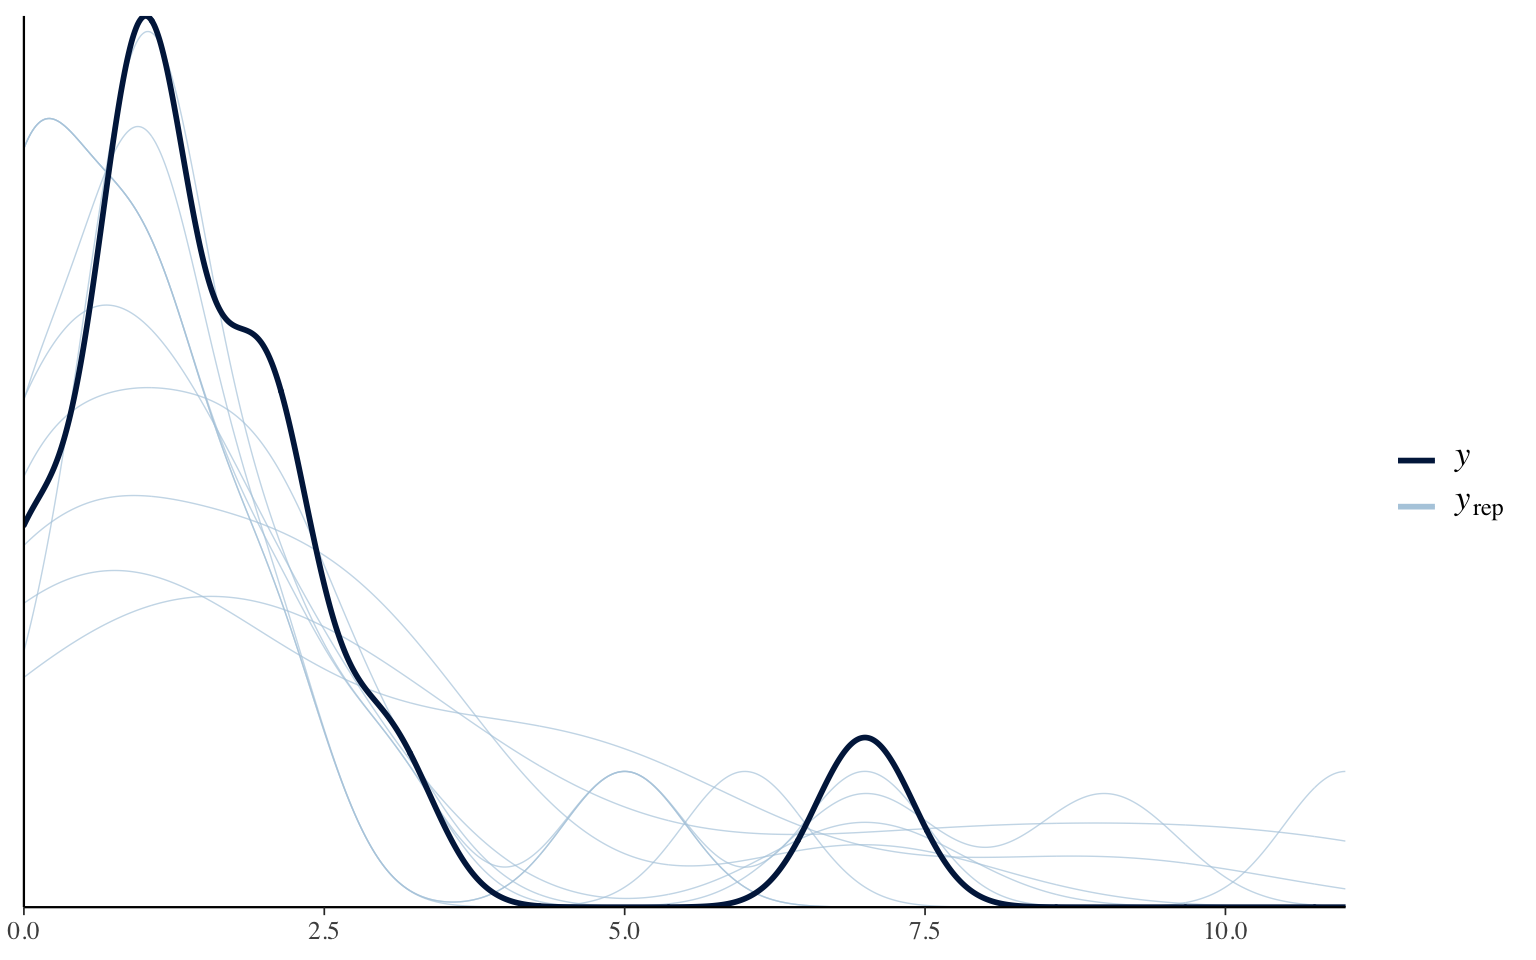
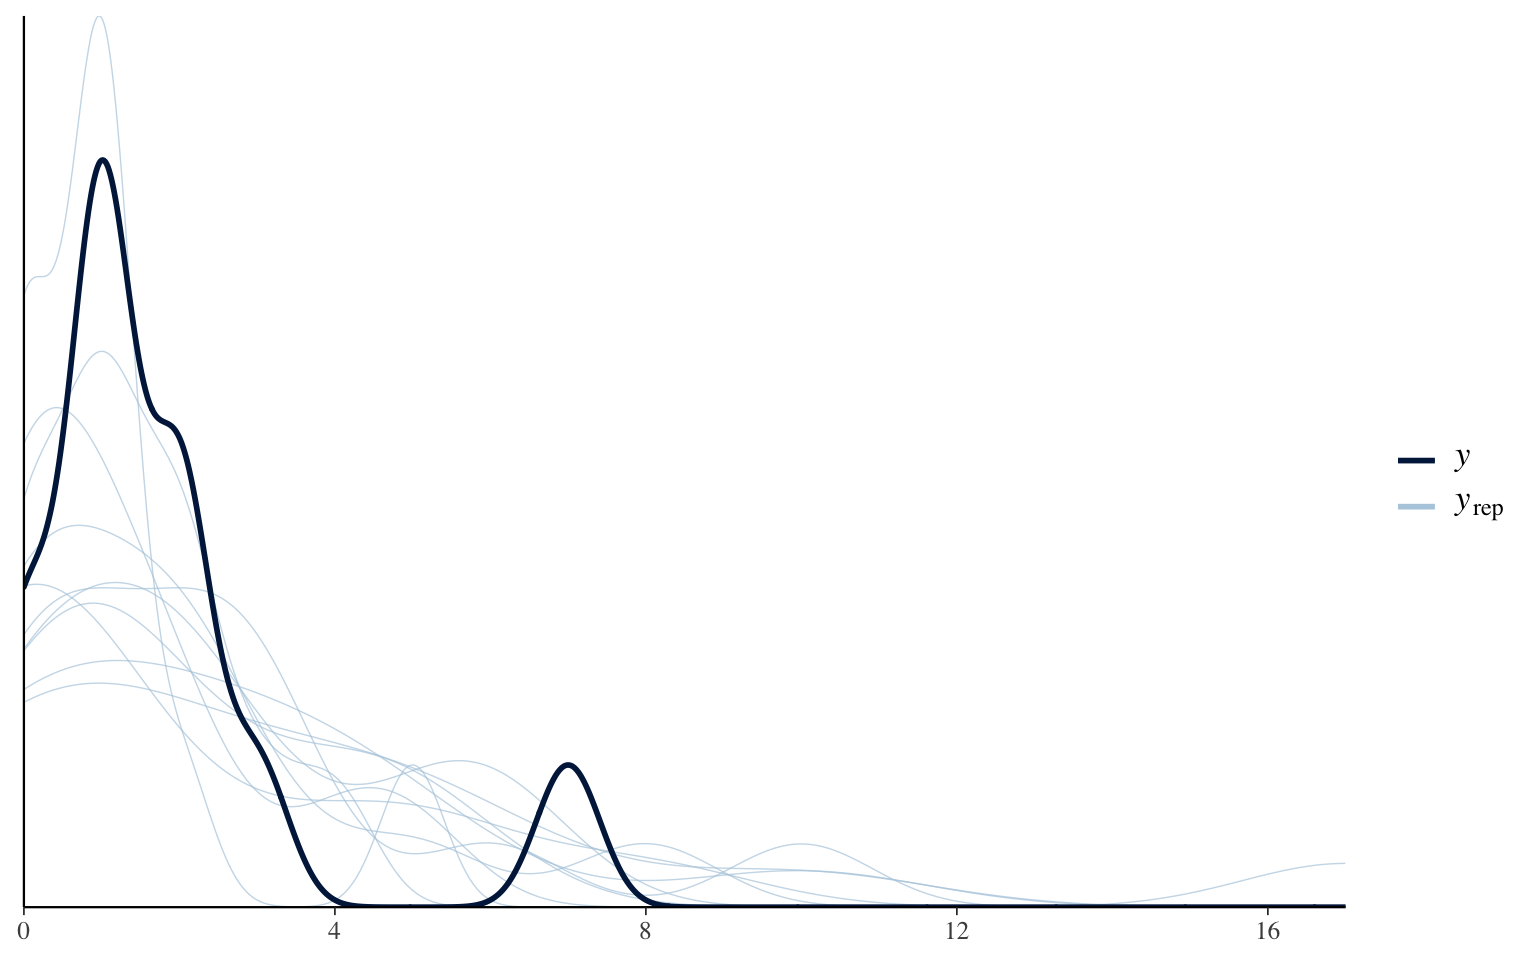
update md/qmd for bayesian for corrected images

diff --git a/content/posts/bayesian/01-intro.md b/content/posts/bayesian/01-intro.md
@@ -13,7 +13,10 @@ execute:
 
 ## 0. Problem: Total Effect of Race on CMPD Arrests
 
-Load the data and aggregate for counts.
+Load the data and aggregate for counts. To simplify this analysis, we'll
+examine only one month (June, 2017). First, we'll load our data and then
+keep only stops with White/Black individuals as well as Reason for the
+stop based on certain stops.
 
 ``` r
 library(tidyverse)
@@ -32,8 +35,8 @@ library(tidyverse)
 
 ``` r
 df <- read_csv("Officer_Traffic_Stops.csv") %>%
-  mutate(arrest = if_else(Result_of_Stop == "Arrest", 1L, 0L)) %>%
-  sample_n(size=1000) %>%
+  mutate(arrest = if_else(Result_of_Stop %in% c("Arrest","Citation Issued"), 1L, 0L)) %>%
+  filter(Month_of_Stop == "2017/06") %>%
   filter(Driver_Race %in% c("White","Black")) %>%
   filter(Reason_for_Stop %in% c("Vehicle Regulatory","Speeding","SeatBelt","Vehicle Equipment","Stop Light/Sign","Safe Movement"))
 ```
@@ -55,14 +58,14 @@ head(df)
 ```
 
     # A tibble: 6 × 18
-      Month_of_Stop Reason_for_Stop    Officer_Race  Officer_Gender Officer_Years_o…
-      <chr>         <chr>              <chr>         <chr>                     <dbl>
-    1 2016/07       Vehicle Equipment  White         Male                          1
-    2 2017/04       Speeding           Black/Africa… Male                          7
-    3 2017/10       Speeding           Black/Africa… Male                         16
-    4 2017/08       Vehicle Equipment  White         Male                         19
-    5 2017/01       Speeding           Asian / Paci… Male                          7
-    6 2016/10       Vehicle Regulatory White         Male                          8
+      Month_of_Stop Reason_for_Stop    Officer_Race Officer_Gender Officer_Years_of…
+      <chr>         <chr>              <chr>        <chr>                      <dbl>
+    1 2017/06       Vehicle Regulatory White        Female                         3
+    2 2017/06       Vehicle Regulatory White        Male                           2
+    3 2017/06       Stop Light/Sign    White        Male                           5
+    4 2017/06       Vehicle Equipment  White        Male                          10
+    5 2017/06       Stop Light/Sign    White        Male                           2
+    6 2017/06       Stop Light/Sign    White        Female                         3
     # … with 13 more variables: Driver_Race <chr>, Driver_Ethnicity <chr>,
     #   Driver_Gender <chr>, Driver_Age <dbl>, Was_a_Search_Conducted <chr>,
     #   Result_of_Stop <chr>, CMPD_Division <chr>, ObjectID <dbl>,
@@ -85,18 +88,18 @@ df2
     # Groups:   Driver_Race [2]
        Driver_Race Reason_for_Stop    stops arrests
        <chr>       <chr>              <int>   <int>
-     1 Black       Safe Movement         34       1
-     2 Black       SeatBelt               4       0
-     3 Black       Speeding             114       0
-     4 Black       Stop Light/Sign       45       1
-     5 Black       Vehicle Equipment     72       4
-     6 Black       Vehicle Regulatory   251       3
-     7 White       Safe Movement         18       0
-     8 White       SeatBelt               3       0
-     9 White       Speeding             149       0
-    10 White       Stop Light/Sign       48       0
-    11 White       Vehicle Equipment     41       0
-    12 White       Vehicle Regulatory   117       0
+     1 Black       Safe Movement         94      23
+     2 Black       SeatBelt              31       8
+     3 Black       Speeding             285     194
+     4 Black       Stop Light/Sign      139      31
+     5 Black       Vehicle Equipment    271      49
+     6 Black       Vehicle Regulatory   764     239
+     7 White       Safe Movement         93      30
+     8 White       SeatBelt              12       2
+     9 White       Speeding             328     207
+    10 White       Stop Light/Sign      153      38
+    11 White       Vehicle Equipment     96      12
+    12 White       Vehicle Regulatory   341     132
 
 ## 1. Scientific Model
 
@@ -120,7 +123,7 @@ StopReason -> Arrest
 plot(g)
 ```
 
-<img src="01-intro_files/figure-gfm/unnamed-chunk-6-1.png"
+<img src="/posts/bayesian/01-intro_files/figure-gfm/unnamed-chunk-6-1.png"
 width="768" />
 
 ## 2. Statistical Model
@@ -187,7 +190,7 @@ convergence as we can see in the trace plots.
 plot(m1)
 ```
 
-<img src="01-intro_files/figure-gfm/unnamed-chunk-10-1.png"
+<img src="/posts/bayesian/01-intro_files/figure-gfm/unnamed-chunk-10-1.png"
 width="768" />
 
 ## 4. Posterior Samples and Contrasts
@@ -217,7 +220,7 @@ posterior_draws %>%
   labs(x = "Black-White contrast (total", y = "Density")
 ```
 
-<img src="01-intro_files/figure-gfm/unnamed-chunk-12-1.png"
+<img src="/posts/bayesian/01-intro_files/figure-gfm/unnamed-chunk-12-1.png"
 width="768" />
 
 ## 5. Posterior Predictive Checks
@@ -231,7 +234,7 @@ bayesplot::pp_check(m1)
 
     Using 10 posterior draws for ppc type 'dens_overlay' by default.
 
-<img src="01-intro_files/figure-gfm/unnamed-chunk-14-1.png"
+<img src="/posts/bayesian/01-intro_files/figure-gfm/unnamed-chunk-14-1.png"
 width="768" />
 
 Overall, the model fits pretty well. From this very naive model, we find
@@ -341,16 +344,16 @@ summary(m2)
 plot(m2)
 ```
 
-<img src="01-intro_files/figure-gfm/unnamed-chunk-18-1.png"
+<img src="/posts/bayesian/01-intro_files/figure-gfm/unnamed-chunk-18-1.png"
 width="768" />
 
-<img src="01-intro_files/figure-gfm/unnamed-chunk-18-2.png"
+<img src="/posts/bayesian/01-intro_files/figure-gfm/unnamed-chunk-18-2.png"
 width="768" />
 
-<img src="01-intro_files/figure-gfm/unnamed-chunk-18-3.png"
+<img src="/posts/bayesian/01-intro_files/figure-gfm/unnamed-chunk-18-3.png"
 width="768" />
 
-<img src="01-intro_files/figure-gfm/unnamed-chunk-18-4.png"
+<img src="/posts/bayesian/01-intro_files/figure-gfm/unnamed-chunk-18-4.png"
 width="768" />
 
 ## 4B. Posterior Samples and Contrasts
@@ -385,7 +388,7 @@ ggplot(marg_eff, aes(x = diff)) +
   labs(x = "Difference in Arrests (Black - White)", y = "Density")
 ```
 
-<img src="01-intro_files/figure-gfm/unnamed-chunk-22-1.png"
+<img src="/posts/bayesian/01-intro_files/figure-gfm/unnamed-chunk-22-1.png"
 width="768" />
 
 ## 5B. Posterior Predictive Checks
@@ -398,7 +401,7 @@ bayesplot::pp_check(m2)
 
     Using 10 posterior draws for ppc type 'dens_overlay' by default.
 
-<img src="01-intro_files/figure-gfm/unnamed-chunk-24-1.png"
+<img src="/posts/bayesian/01-intro_files/figure-gfm/unnamed-chunk-24-1.png"
 width="768" />
 
 ## 6. Model Comparison
@@ -474,8 +477,10 @@ df2 %>%
   coord_equal() +
   labs(x = "White Arrest Rate", y = "Black Arrest Rate",
        size = "Arrest Rate") +
-  theme(legend.position = "right")
+  theme(legend.position = "right") +
+  xlim(0,0.5) +
+  ylim(0,0.5)
 ```
 
-<img src="01-intro_files/figure-gfm/unnamed-chunk-32-1.png"
+<img src="/posts/bayesian/01-intro_files/figure-gfm/unnamed-chunk-32-1.png"
 width="768" />
